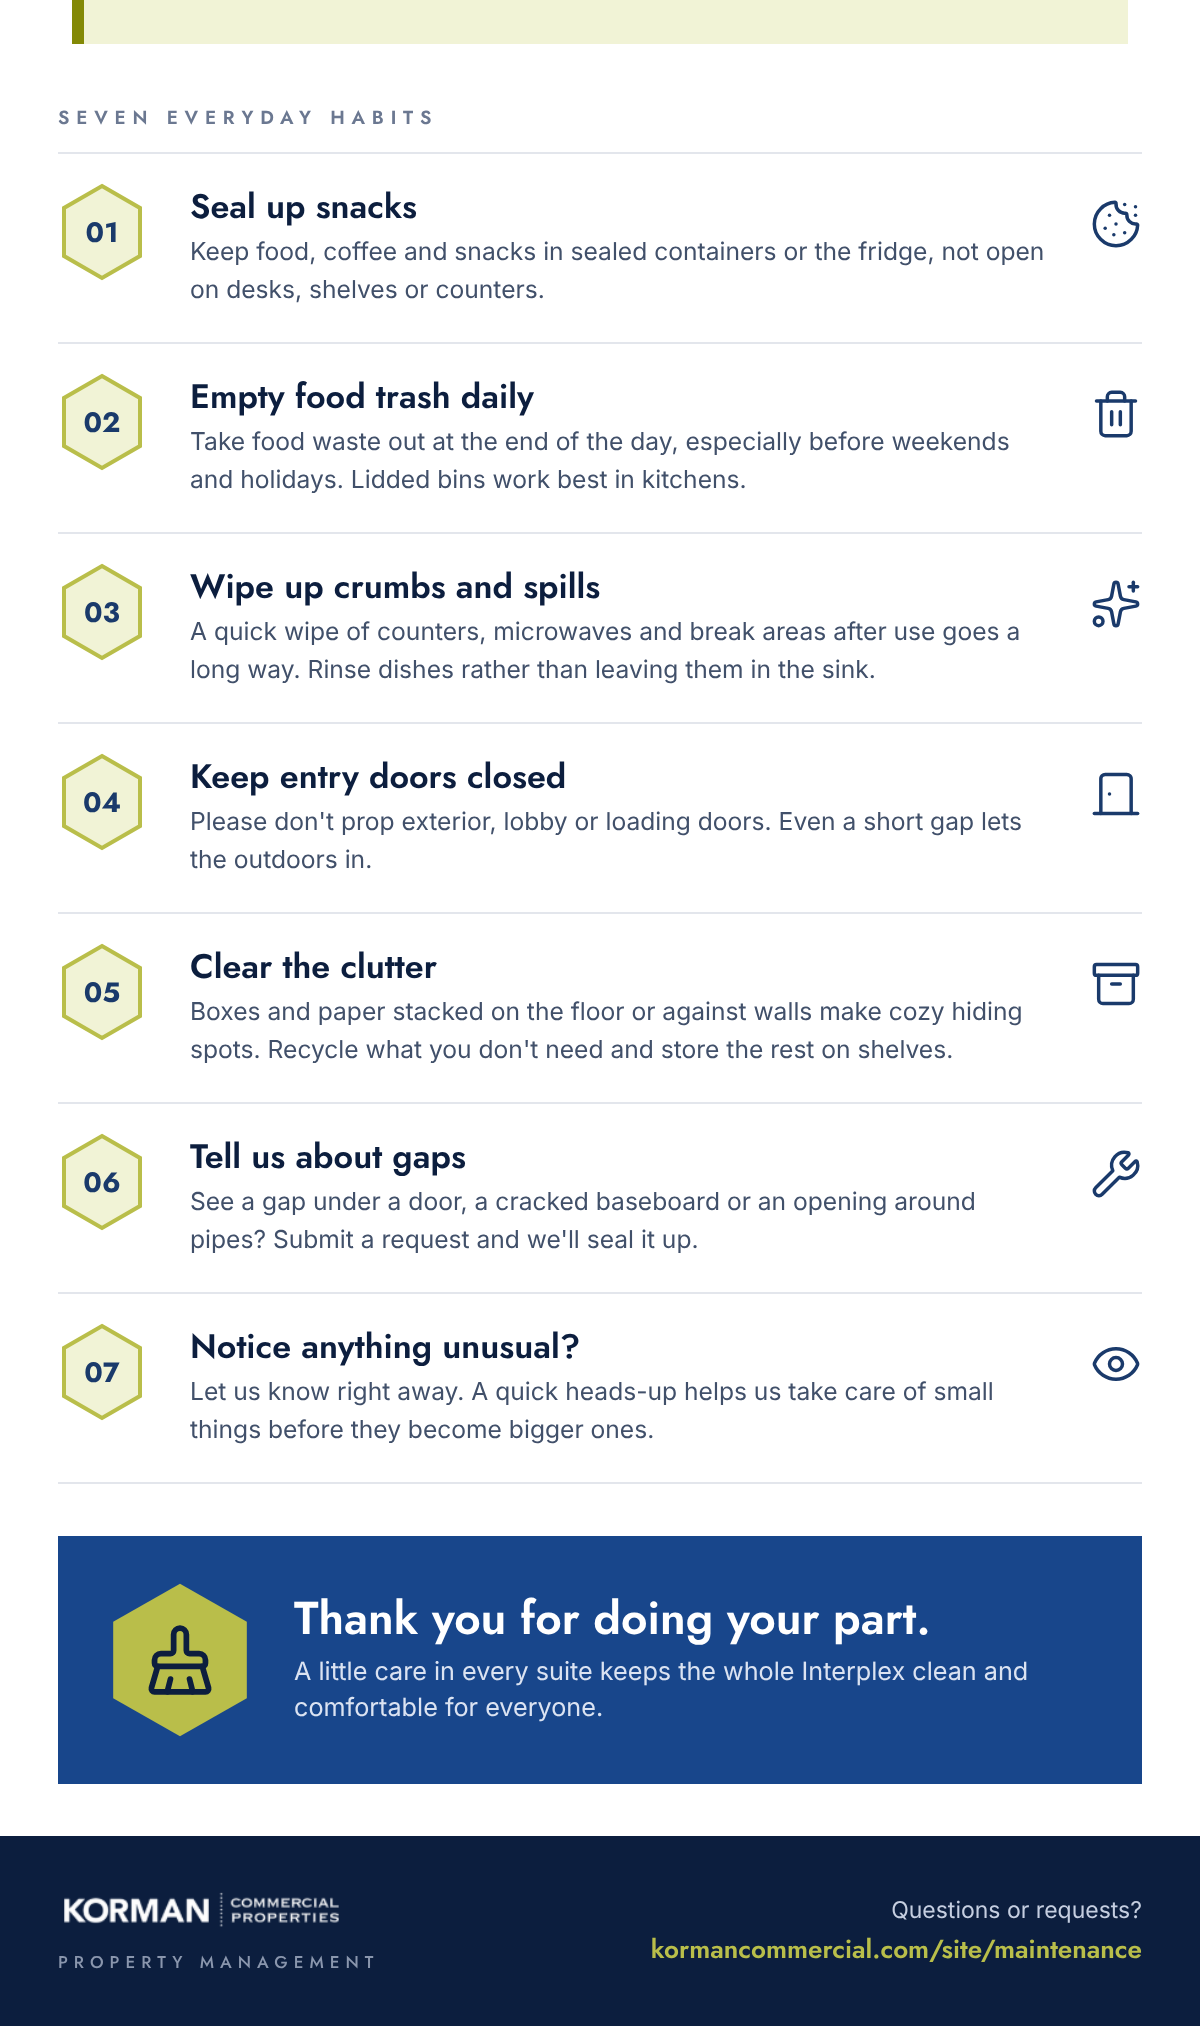
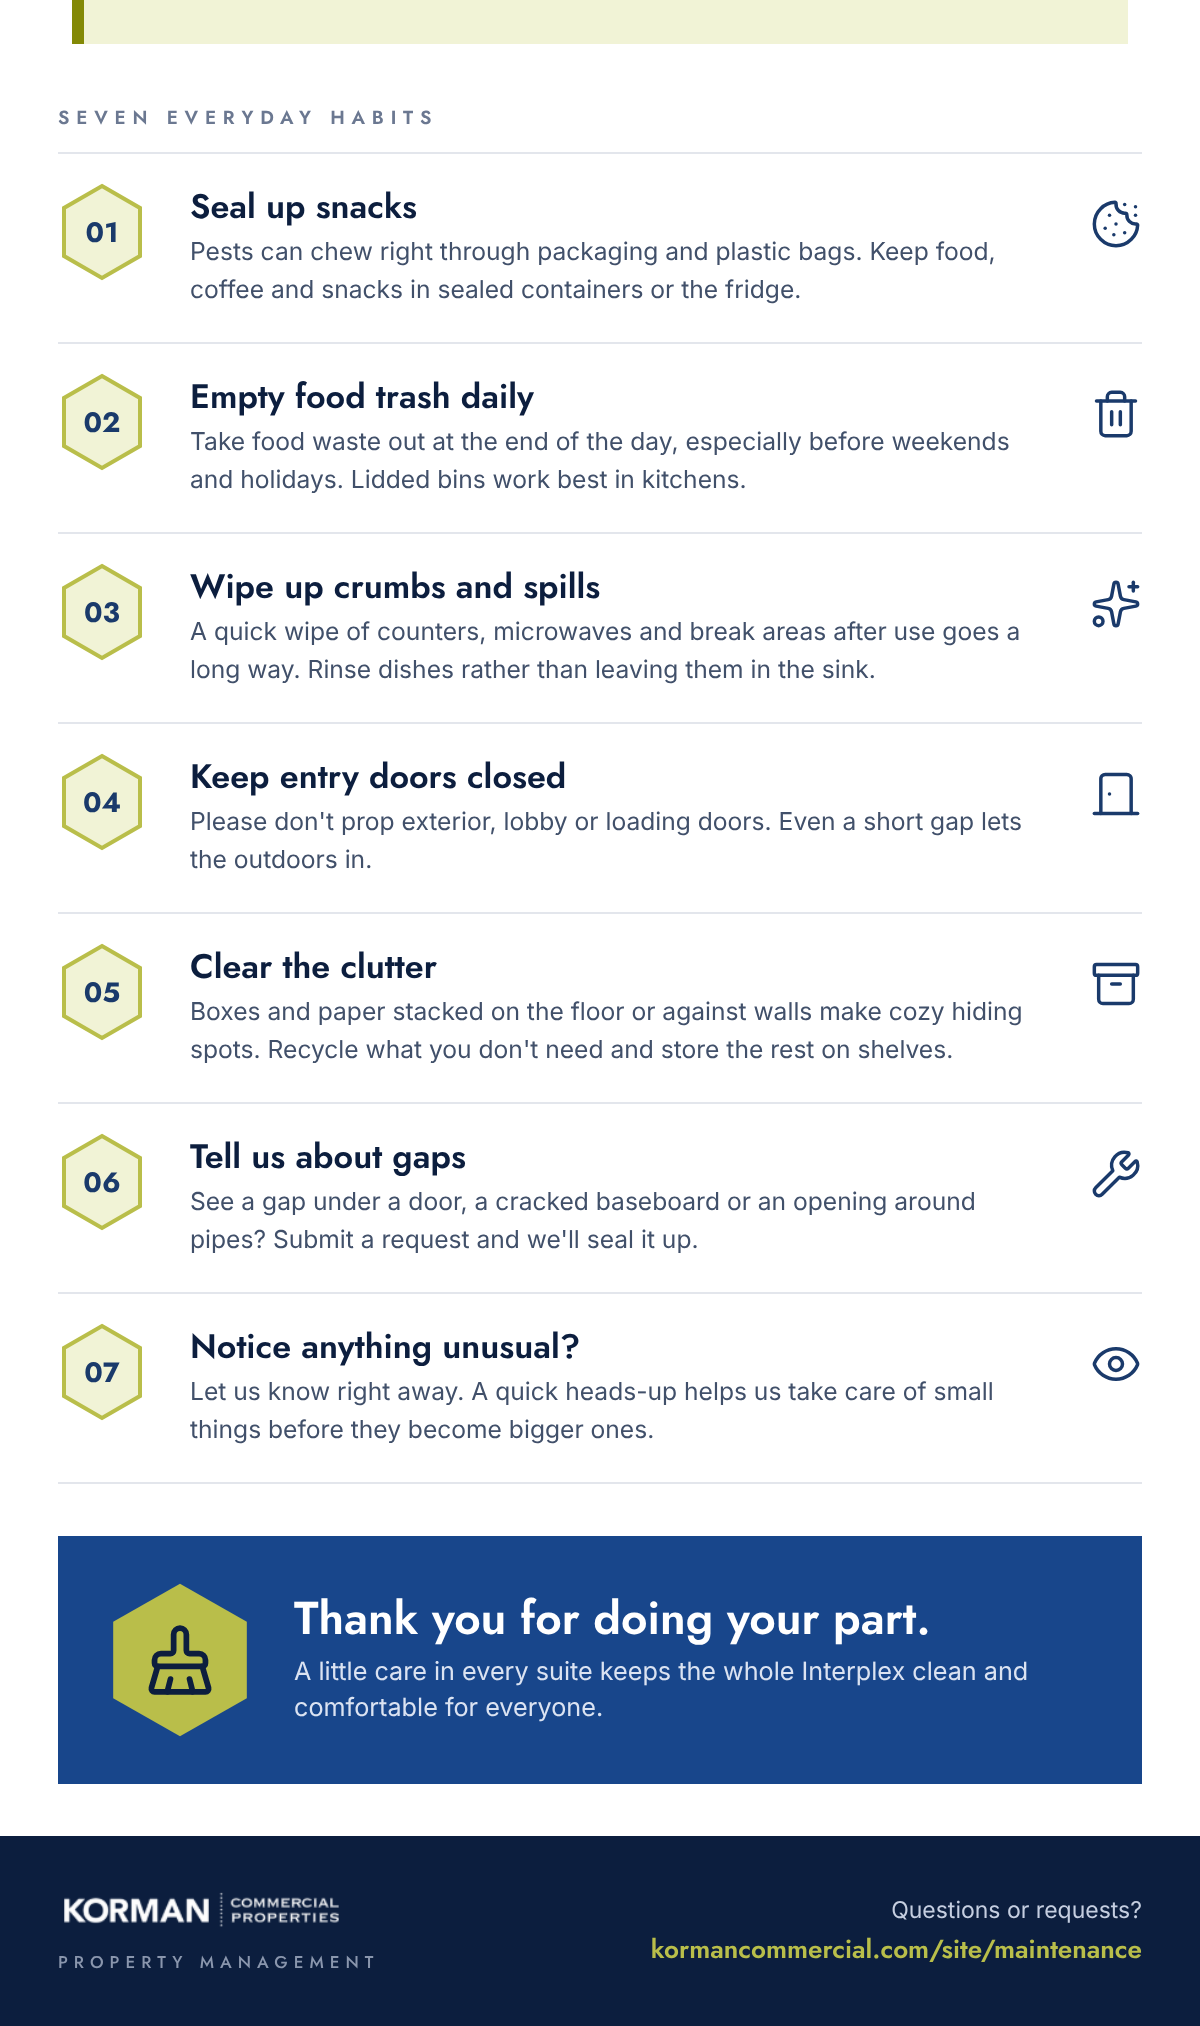
Pest prevention email: habit 1 says pests chew through packaging
Claude-Session: https://claude.ai/code/session_01Lp9Ae4FrKt2x5NSTsnXcv5

Changed region(s): [[0.185, 0.1244, 0.7092, 0.1555], [0.74, 0.1244, 0.7708, 0.1555]]

diff --git a/lib/communications/templates.ts b/lib/communications/templates.ts
@@ -82,7 +82,7 @@ export const TENANT_TEMPLATES: TenantTemplate[] = [
     blurb: "Quiet, preventative pest tips for the colder months: seal up food, empty trash daily, keep doors closed, report gaps. Never names a pest.",
     button: { label: "Submit a request", width: 176 }, topHeight: 586, bottomHeight: 1013,
     altTop: "Neshaminy Interplex Seasonal Care Guide. Cozy suites, closed for the season. As the weather turns colder, small outdoor visitors start looking for somewhere warm. Spot a gap, crack or opening? Submit a request and our maintenance team will seal it up.",
-    altBottom: "Seven everyday habits: seal up snacks, empty food trash daily, wipe up crumbs and spills, keep entry doors closed, clear the clutter, tell us about gaps, and let us know right away if you notice anything unusual. Thank you for doing your part.",
+    altBottom: "Seven everyday habits: seal up snacks (pests can chew through packaging and plastic bags), empty food trash daily, wipe up crumbs and spills, keep entry doors closed, clear the clutter, tell us about gaps, and let us know right away if you notice anything unusual. Thank you for doing your part.",
     schedule: { remindFrom: { month: 10, day: 1 }, due: { month: 10, day: 15 } },
   },
   {
